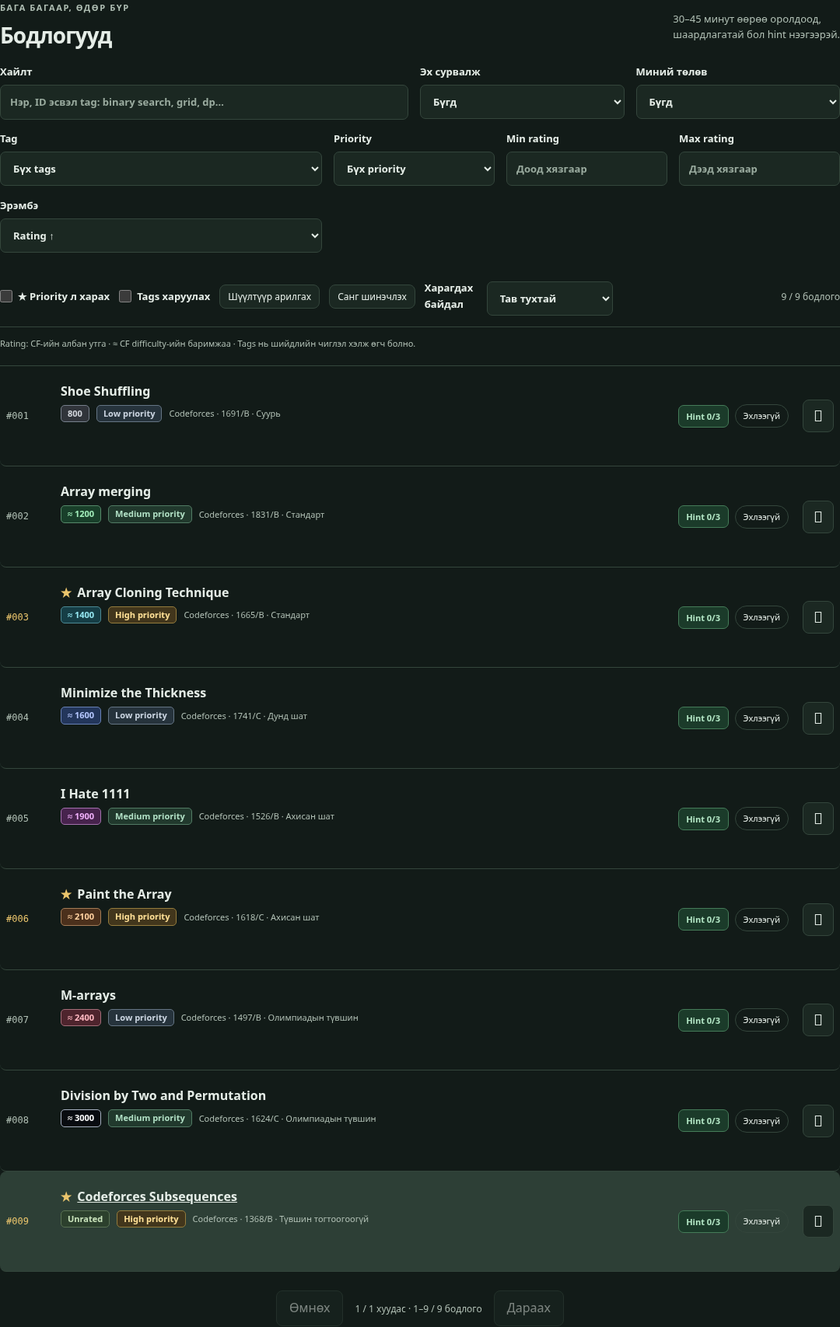
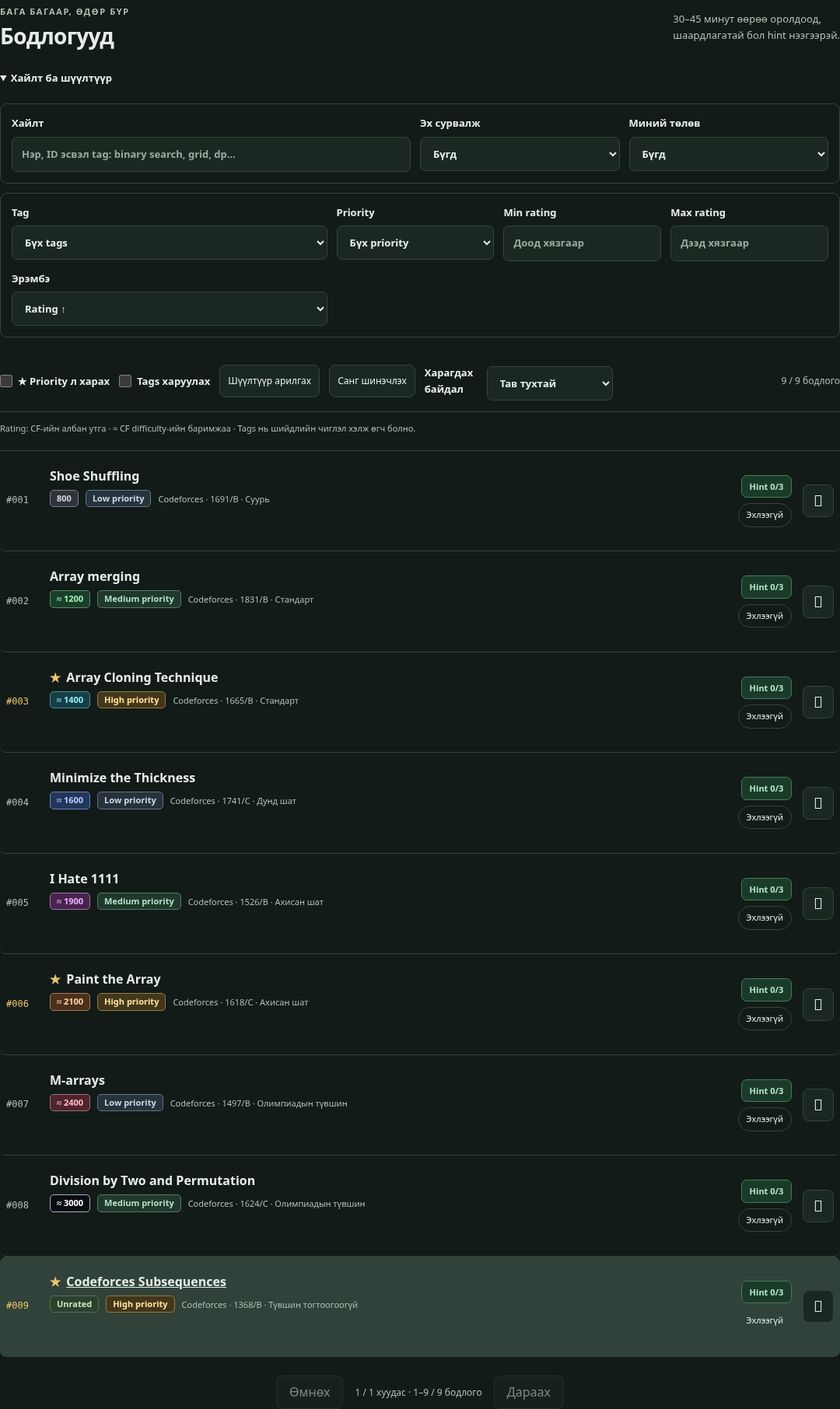
Refresh shared UI and navigation; add minimalist problem mode

diff --git a/index.html b/index.html
@@ -5,13 +5,13 @@
   <title>Erdene Club — Бодлого ба DSA tutorials</title>
   <meta name="description" content="Бодлогын сан, progress болон Монгол хэлээр тайлбарласан DSA tutorials.">
   <script src="theme.js?v=18"></script>
-  <link rel="icon" href="favicon.svg" type="image/svg+xml"><link rel="stylesheet" href="styles.css?v=42"><link rel="stylesheet" href="theme.css?v=23">
+  <link rel="icon" href="favicon.svg" type="image/svg+xml"><link rel="stylesheet" href="styles.css?v=42"><link rel="stylesheet" href="theme.css?v=24">
 <link rel="stylesheet" href="learning.css?v=23"><link rel="stylesheet" href="tutorial-blocks.css?v=42"><link rel="stylesheet" href="tutorial-block-editor.css?v=42"><link rel="stylesheet" href="tutorial-samples.css?v=42">
 <link rel="stylesheet" href="catalog-workspace.css?v=42">
 </head>
 <body>
   <header class="top"><a class="brand" href="#home"><span class="logo">e.</span>erdene<span>club</span></a><span class="top-note">Competitive programming</span><div class="top-actions"><button id="theme-toggle" type="button" aria-label="Бараан горимд шилжих" aria-pressed="false">☾</button><button id="account">Нэвтрэх</button></div></header>
-  <nav class="site-nav" aria-label="Сайтын хэсгүүд"><a data-route="home" href="#home">Нүүр</a><a data-route="profile" href="#profile">Profile</a><a data-route="library" href="#library">Бодлогууд</a><a data-route="tutorials" href="#tutorials">Tutorials</a><a href="https://judge.erdeneclub.com/" target="_blank" rel="noopener noreferrer" title="Шинэ tab-д нээнэ">CMS</a><a data-route="plan" href="#plan">100 хоног</a><a data-route="groups" href="#groups">Групп</a><a data-route="community" id="open-people" href="#community">Хэрэглэгчид</a><a data-route="friends" id="open-friends" href="#friends">Friends</a><a data-route="following" id="open-following" href="#following">Following</a><a data-route="admin-section" id="admin-nav" href="#admin-section" hidden>Admin · Бодлого</a><a data-route="admin-tutorials" id="admin-tutorial-nav" href="#admin-tutorials" hidden>Admin · Tutorials</a><a data-route="learning-admin" id="learning-admin-nav" href="#learning-admin" hidden>Admin · Сургалт</a></nav>
+  <nav class="site-nav" aria-label="Сайтын хэсгүүд"><a data-route="home" href="#home">Нүүр</a><a data-route="profile" href="#profile">Profile</a><a data-route="library" href="#library">Бодлогууд</a><a data-route="tutorials" href="#tutorials">Tutorials</a><a href="https://judge.erdeneclub.com/" target="_blank" rel="noopener noreferrer" title="Шинэ tab-д нээнэ">CMS</a><a data-route="plan" href="#plan">100 хоног</a><a data-route="groups" href="#groups">Групп</a><a data-route="community" id="open-people" href="#community">Хэрэглэгчид</a><a data-route="admin-section" id="admin-nav" href="#admin-section" hidden>Admin · Бодлого</a><a data-route="admin-tutorials" id="admin-tutorial-nav" href="#admin-tutorials" hidden>Admin · Tutorials</a><a data-route="learning-admin" id="learning-admin-nav" href="#learning-admin" hidden>Admin · Сургалт</a></nav>
   <main>
     <section class="hero home-intro" aria-labelledby="home-title">
       <div class="home-lead"><p class="home-kicker">ERDENE CLUB</p><h1 id="home-title">Бодлого ба алгоритм</h1><p class="intro">Competitive programming-ийн бодлогын сан, DSA хичээлүүд болон сургалтын тэмдэглэл.</p><div class="home-actions"><a class="primary" href="#library">Бодлогын сан <span aria-hidden="true">→</span></a><a class="home-secondary" href="#tutorials">Tutorials <span aria-hidden="true">→</span></a></div><p class="home-sources">Codeforces <span>·</span> CSES <span>·</span> IOI <span>·</span> EGOI</p></div>
@@ -27,7 +27,7 @@
     <section id="profile" class="learning-page" hidden aria-label="Profile"><div id="learning-profile-body"></div></section>
 <section id="plan" class="learning-page" hidden><div class="section-head"><div><p class="eyebrow">СИСТЕМТЭЙ БЭЛТГЭЛ</p><h2>100 хоног</h2></div></div><p class="muted">1300–1400 түвшнээс эхлэх хөтөлбөр. Өөрийн хурдаар суралцаж, дутагдсан prerequisite-ээ нөхөж үзээрэй.</p><div id="study-plan-body"></div></section>
 <section id="learning-admin" class="learning-page" hidden><div id="learning-admin-body"></div></section>
-<section id="library"><div class="section-head"><div><p class="eyebrow">БАГА БАГААР, ӨДӨР БҮР</p><h2>Бодлогууд</h2></div><p>30–45 минут өөрөө оролдоод,<br>шаардлагатай бол hint нээгээрэй.</p></div><div class="filters"><label class="search">Хайлт<input id="search" type="search" placeholder="Нэр, ID эсвэл tag: binary search, grid, dp…"></label><label>Эх сурвалж<select id="source"><option value="">Бүгд</option><option>Codeforces</option><option>CSES</option><option>EGOI</option><option>Other</option></select></label><label>Миний төлөв<select id="status-filter"><option value="">Бүгд</option><option value="new">Эхлээгүй</option><option value="trying">Оролдож байгаа</option><option value="solved">Бодсон</option><option value="hinted">Hint ашигласан</option></select></label></div><div class="catalog-controls"><label>Tag<select id="tag-filter"><option value="">Бүх tags</option></select></label><label>Priority<select id="priority-filter"><option value="">Бүх priority</option><option value="high">High</option><option value="medium">Medium</option><option value="low">Low</option></select></label><label>Min rating<input id="min-rating" type="number" min="0" max="4000" step="1" placeholder="Доод хязгаар"></label><label>Max rating<input id="max-rating" type="number" min="0" max="4000" step="1" placeholder="Дээд хязгаар"></label><label>Эрэмбэ<select id="sort"><option value="rating-asc">Rating ↑</option><option value="rating-desc">Rating ↓</option><option value="priority">Priority эхэнд</option><option value="title">Нэрээр</option><option value="number-asc">Нэмсэн дарааллаар</option></select></label></div><div class="catalog-toggles"><label><input id="priority-only" type="checkbox"> ★ Priority л харах</label><label><input id="show-tags" type="checkbox"> Tags харуулах</label><button id="reset-filters" type="button">Шүүлтүүр арилгах</button><button id="refresh-catalog" type="button">Санг шинэчлэх</button><label>Харагдах байдал<select id="problem-density"><option value="comfortable">Тав тухтай</option><option value="compact">Нягт</option></select></label><span id="results-count" role="status" aria-live="polite"></span></div><p id="rating-range-message" class="muted" role="status" aria-live="polite"></p><p class="rating-legend">Rating: CF-ийн албан утга · ≈ CF difficulty-ийн баримжаа · Tags нь шийдлийн чиглэл хэлж өгч болно.</p><div id="problems" class="problem-list" aria-live="polite"><p>Бодлогуудыг ачаалж байна…</p></div><nav id="problem-pagination" class="pagination problem-pagination" aria-label="Бодлогын хуудсууд"><button id="problem-prev" type="button">Өмнөх</button><span id="problem-page" role="status" aria-live="polite"></span><button id="problem-next" type="button">Дараах</button></nav></section>
+<section id="library"><div class="section-head"><div><p class="eyebrow">БАГА БАГААР, ӨДӨР БҮР</p><h2>Бодлогууд</h2></div><p>30–45 минут өөрөө оролдоод,<br>шаардлагатай бол hint нээгээрэй.</p></div><details id="catalog-filter-panel" open><summary>Хайлт ба шүүлтүүр</summary><div class="filters"><label class="search">Хайлт<input id="search" type="search" placeholder="Нэр, ID эсвэл tag: binary search, grid, dp…"></label><label>Эх сурвалж<select id="source"><option value="">Бүгд</option><option>Codeforces</option><option>CSES</option><option>EGOI</option><option>Other</option></select></label><label>Миний төлөв<select id="status-filter"><option value="">Бүгд</option><option value="new">Эхлээгүй</option><option value="trying">Оролдож байгаа</option><option value="solved">Бодсон</option><option value="hinted">Hint ашигласан</option></select></label></div><div class="catalog-controls"><label>Tag<select id="tag-filter"><option value="">Бүх tags</option></select></label><label>Priority<select id="priority-filter"><option value="">Бүх priority</option><option value="high">High</option><option value="medium">Medium</option><option value="low">Low</option></select></label><label>Min rating<input id="min-rating" type="number" min="0" max="4000" step="1" placeholder="Доод хязгаар"></label><label>Max rating<input id="max-rating" type="number" min="0" max="4000" step="1" placeholder="Дээд хязгаар"></label><label>Эрэмбэ<select id="sort"><option value="rating-asc">Rating ↑</option><option value="rating-desc">Rating ↓</option><option value="priority">Priority эхэнд</option><option value="title">Нэрээр</option><option value="number-asc">Нэмсэн дарааллаар</option></select></label></div></details><div class="catalog-toggles"><label><input id="priority-only" type="checkbox"> ★ Priority л харах</label><label><input id="show-tags" type="checkbox"> Tags харуулах</label><button id="reset-filters" type="button">Шүүлтүүр арилгах</button><button id="refresh-catalog" type="button">Санг шинэчлэх</button><label>Харагдах байдал<select id="problem-density"><option value="comfortable">Тав тухтай</option><option value="compact">Нягт</option><option value="minimalist">Minimalist</option></select></label><span id="results-count" role="status" aria-live="polite"></span></div><p id="rating-range-message" class="muted" role="status" aria-live="polite"></p><p class="rating-legend">Rating: CF-ийн албан утга · ≈ CF difficulty-ийн баримжаа · Tags нь шийдлийн чиглэл хэлж өгч болно.</p><div id="problems" class="problem-list" aria-live="polite"><p>Бодлогуудыг ачаалж байна…</p></div><nav id="problem-pagination" class="pagination problem-pagination" aria-label="Бодлогын хуудсууд"><button id="problem-prev" type="button">Өмнөх</button><span id="problem-page" role="status" aria-live="polite"></span><button id="problem-next" type="button">Дараах</button></nav></section>
     <section id="tutorials" class="tutorial-section" aria-labelledby="tutorials-heading">
       <div class="section-head"><div><p class="eyebrow">ОЙЛГО. БАТАЛ. ХЭРЭГЛЭ.</p><h2 id="tutorials-heading">Tutorials</h2></div><p>DSA-г санаанаас нь<br>код хүртэл ойлгоё.</p></div>
       <div class="tutorial-options"><label>Унших хэл / Reading language<select id="tutorial-language"><option value="mn">Монгол</option><option value="en">English</option></select></label><label>Түвшин / Level<select id="tutorial-level"><option value="">Бүх түвшин / All levels</option><option value="beginner">Анхан шат / Beginner</option><option value="intermediate">Дунд шат / Intermediate</option><option value="advanced">Ахисан шат / Advanced</option></select></label></div><div id="tutorial-browser"><aside id="tutorial-learning-guide" class="tutorial-note"></aside>
@@ -67,6 +67,6 @@
   <dialog id="public-profile" class="wide-dialog"><div class="dialog-head"><span class="eyebrow">PROFILE</span><button data-close="public-profile" aria-label="Хаах">✕</button></div><h2 id="public-profile-name">Profile</h2><div id="public-profile-body"></div><div id="public-profile-actions" class="friend-actions"></div><p id="public-profile-message" role="status" aria-live="polite" class="muted"></p><button id="refresh-public-profile" type="button">Шинэчлэх</button><div class="profile-problems"><section><h3>Бодсон бодлогууд</h3><ul id="public-solved"></ul></section><section><h3>Бодож байгаа бодлогууд</h3><ul id="public-trying"></ul></section></div></dialog>
   <dialog id="recovery"><div class="dialog-head"><span class="eyebrow">PASSWORD СЭРГЭЭХ</span><button data-close="recovery" aria-label="Хаах">✕</button></div><h2>Account-даа буцаж оръё.</h2><p id="recovery-message" role="status" aria-live="polite" class="muted"></p><form id="recovery-email-form"><label>Email<input id="recovery-email" type="email" autocomplete="email" required></label><button id="send-recovery-code" class="primary" type="submit">Баталгаажуулах код авах</button></form><form id="recovery-code-form" hidden><p>Код илгээсэн email: <span id="recovery-destination"></span></p><label>Баталгаажуулах код<input id="recovery-code" type="text" inputmode="numeric" autocomplete="one-time-code" pattern="[0-9]{6,10}" minlength="6" maxlength="10" required></label><div class="auth-actions"><button id="verify-recovery-code" class="primary" type="submit">Код баталгаажуулах</button><button id="resend-recovery-code" type="button">Код дахин авах</button><button id="change-recovery-email" type="button">Email солих</button></div></form><form id="recovery-password-form" hidden><label>Шинэ нууц үг<input id="recovery-password" type="password" autocomplete="new-password" minlength="8" required></label><label>Нууц үг давтах<input id="recovery-confirm" type="password" autocomplete="new-password" minlength="8" required></label><button id="save-recovery-password" class="primary" type="submit">Нууц үг шинэчлэх</button></form></dialog>
   <dialog id="tutorial-preview" class="wide-dialog"><div class="dialog-head"><strong>Урьдчилан харах</strong><button data-close="tutorial-preview" aria-label="Хаах">✕</button></div><article id="tutorial-preview-content" class="tutorial-content"></article></dialog>
-  <script src="vendor/highlight/highlight.min.js"></script><script type="module" src="navigation.js?v=23"></script><script src="config.js"></script><script type="module" src="app.js?v=42"></script>
+  <script src="vendor/highlight/highlight.min.js"></script><script type="module" src="navigation.js?v=43"></script><script src="config.js"></script><script type="module" src="app.js?v=43"></script>
 </body>
 </html>

diff --git a/theme.css b/theme.css
@@ -1,4 +1,83 @@
 :root { color-scheme: light; }
+:root { --ink:#18342a; --paper:#f8faf9; --line:#dce5df; --muted:#536b5d; --home-soft:#edf3ef; }
+body { line-height:1.65; }
+button,input:not([type=checkbox]):not([type=radio]):not([type=range]),select { min-height:42px; }
+button { line-height:1.4; }
+:focus-visible { outline:2px solid var(--green); outline-offset:3px; }
+.site-nav a { display:inline-flex; align-items:center; min-height:40px; padding:8px 12px; }
+.section-head { gap:20px; }
+.profile-panel,.profile-charts>* { min-width:0; }
+.learning-inline { min-width:0; max-width:100%; overflow-wrap:anywhere; white-space:normal; }
+.activity-grid { max-width:100%; overflow-x:auto; }
+dialog { max-height:calc(100dvh - 32px); overflow:auto; border:1px solid var(--line); border-radius:12px; padding:24px; }
+dialog::backdrop { background:rgb(12 30 21 / 48%); }
+dialog h2 { line-height:1.3; overflow-wrap:anywhere; }
+input::placeholder,textarea::placeholder { color:var(--muted); opacity:1; }
+html:not([data-theme=dark]) .tutorial-card,
+html:not([data-theme=dark]) .group-card,
+html:not([data-theme=dark]) .group-report-card,
+html:not([data-theme=dark]) .admin-tools>section,
+html:not([data-theme=dark]) .stats,
+html:not([data-theme=dark]) .community-section { background:#fff; }
+@media(max-width:600px) {
+ dialog { padding:18px; max-width:calc(100% - 24px); }
+ .section-head { flex-wrap:wrap; gap:8px; }
+ .site-nav a { padding:8px 10px; }
+}
+@media(prefers-reduced-motion:reduce) { html { scroll-behavior:auto; } }
+/* A quieter workspace hierarchy: persistent navigation on wide screens,
+   wrapping top navigation on tablets and phones. */
+.site-nav { gap:4px; }
+.site-nav a { border:1px solid transparent; border-radius:8px; font-weight:550; }
+.site-nav a[aria-current=page] { border-color:var(--line); background:var(--home-soft); }
+.section-head h2 { letter-spacing:-.7px; line-height:1.25; }
+.home-intro #home-title { font-size:clamp(34px,4vw,48px); letter-spacing:-1.6px; }
+.home-continue,.tutorial-card,.group-card,.profile-panel { box-shadow:none; }
+@media(min-width:1280px) {
+ .top { margin:0 32px 0 236px; padding:0 24px; max-width:1200px; height:80px; }
+ .site-nav { position:fixed; top:104px; left:24px; width:188px; max-height:calc(100dvh - 128px); overflow:auto; display:flex; flex-direction:column; padding:12px; margin:0; border:1px solid var(--line); border-radius:12px; background:var(--home-surface); }
+ .site-nav a { width:100%; padding:11px 12px; min-height:44px; }
+ main { max-width:1200px; margin:0 32px 0 236px; padding:0 24px; }
+ body>footer { max-width:1200px; margin-left:260px; margin-right:56px; }
+}
+html:not([data-theme=dark]) .tag-chip { background:#f3f6f4; color:#4a6052; }
+html:not([data-theme=dark]) #library .filters,
+html:not([data-theme=dark]) #library .catalog-controls { background:#fff; }
+/* Shared layout rules keep density changes separate from catalog/progress data. */
+#library .filters,#library .catalog-controls { padding:14px; border:1px solid var(--line); border-radius:9px; gap:12px; }
+#library .catalog-controls { margin-top:12px; }
+#catalog-filter-panel>summary { padding:8px 0; font-size:13px; font-weight:600; cursor:pointer; }
+#library .catalog-toggles { padding:8px 0; gap:12px 18px; }
+#problems .problem { grid-template-columns:42px minmax(0,1fr) auto auto; gap:14px; padding:20px 4px; }
+#problems .problem .open { min-width:0; border-radius:4px; }
+#problems .problem h3 { font-size:16px; line-height:1.45; font-weight:600; }
+#problems .problem-meta { gap:6px 9px; }
+#problems .problem-meta small,#problems .tag-chip { min-width:0; max-width:100%; overflow-wrap:anywhere; }
+#problems .problem-signals { display:flex; flex-direction:column; align-items:flex-end; gap:7px; }
+#problems .problem>.problem-learning-links { grid-column:2/-1; margin-top:0; overflow-wrap:anywhere; }
+#problems.compact .problem { padding:11px 4px; gap:10px; }
+#problems.compact .problem h3 { font-size:14px; }
+#problems.compact .tag-chips { margin-top:6px; }
+#problems.minimalist .problem { grid-template-columns:38px minmax(0,1fr) auto; gap:12px; padding:23px 4px; }
+#problems.minimalist .problem h3 { font-size:18px; font-weight:550; letter-spacing:-.15px; }
+#problems.minimalist .rating { font-size:10px; padding:1px 6px; }
+#problems.minimalist .tag-chip { font-size:10px; padding:1px 6px; background:transparent; }
+#problems.minimalist .priority-badge { font-size:10px; padding:1px 6px; }
+#problems.minimalist .problem-meta { gap:5px 8px; }
+#problems.minimalist .number { font-size:11px; }
+#problems.minimalist .hint-meter,#problems.minimalist .arrow { display:none; }
+#problems.minimalist .tag-chips { margin-top:7px; }
+#problems .open:focus-visible { outline:2px solid var(--green); outline-offset:5px; }
+@media(max-width:600px) {
+ #library .filters,#library .catalog-controls { padding:11px; gap:10px; }
+ #problems .problem,#problems.minimalist .problem { grid-template-columns:28px minmax(0,1fr) auto; gap:9px; }
+ #problems .problem h3 { font-size:15px; }
+ #problems.minimalist .problem h3 { font-size:17px; }
+ #problems.compact .problem h3 { font-size:14px; }
+ #problems .problem .arrow { display:none; }
+ #problems .problem-signals { max-width:76px; }
+ #problems .problem-signals .badge { font-size:10px; white-space:normal; text-align:center; }
+}
 .top-actions { display:flex; align-items:center; gap:10px; margin-left:auto; min-width:0; }
 .top .top-actions button { margin-left:0; }
 #theme-toggle { width:41px; min-width:41px; height:41px; padding:0; font-size:22px; line-height:1; }

diff --git a/app.js b/app.js
@@ -62,7 +62,7 @@ function render() {
   renderHome();learningUI?.render();
   const filters={query:$('search').value,source:$('source').value,status:$('status-filter').value,tag:$('tag-filter').value,minRating:$('min-rating').value,maxRating:$('max-rating').value,priorityOnly:$('priority-only').checked,priorityLevel:$('priority-filter').value,sort:$('sort').value};
   const filterKey=JSON.stringify(filters);if(filterKey!==lastFilterKey){problemPage=0;lastFilterKey=filterKey;}
-  $('problems').classList.toggle('compact',$('problem-density').value==='compact');$('problems').replaceChildren();
+  $('problems').classList.toggle('compact',$('problem-density').value==='compact');$('problems').classList.toggle('minimalist',$('problem-density').value==='minimalist');$('problems').replaceChildren();
   const invalidRange=!$('min-rating').checkValidity()||!$('max-rating').checkValidity()||($('min-rating').value!==''&&$('max-rating').value!==''&&Number($('min-rating').value)>Number($('max-rating').value));
   const filtered=invalidRange?[]:filterProblems(data.problems,state,filters);
   $('results-count').textContent=filtered.length+' / '+data.problems.length+' бодлого';
@@ -188,6 +188,8 @@ async function refreshCatalog(){if(!client){catalogLoading=false;render();notice
  finally{catalogLoading=false;render();}
 }
 async function init() {
+  const filterPanel=$('catalog-filter-panel'),smallScreen=matchMedia('(max-width:700px)');if(filterPanel){filterPanel.open=!smallScreen.matches;smallScreen.addEventListener('change',event=>{filterPanel.open=!event.matches;});}
+
   const response=await fetch('./problems.json?v=16', {cache:'no-store'});if(!response.ok)throw new Error('Бодлогын санг ачаалж чадсангүй.');data=await response.json();data.problems=data.problems.map(p=>({...p,url:canonicalProblemUrl(p.url)}));catalogIds=new Set(data.problems.map(p=>p.id));catalogLoading=configured;
   try{const cached=parseCatalog(JSON.parse(localStorage.getItem('think-cp:online-catalog')||'null'));data.problems=cached.problems;data.sources=cached.sources||[];for(const id of cached.knownIds)catalogIds.add(id);}catch{}
   readLocal();render();updateAccount();
@@ -211,7 +213,7 @@ async function init() {
   social=setupSocial({client:()=>client,user:()=>user,problems:()=>data.problems,openProblem,viewProfile:id=>{if(learningUI)location.hash='#profile/'+id;else void social?.openProfile(id);},openAccount:()=>{$('account').onclick();},notice});
   adminUI=setupAdmin({progress:()=>state,client:()=>client,user:()=>user,refreshCatalog,sources:()=>getSources(data.problems,data.sources||[])});
   try{learningUI=await setupLearning({client:()=>client,user:()=>user,profile:()=>myProfile,problems:()=>data.problems,progress:()=>state,openProblem,refreshCatalog,redraw:render,refreshDetail:renderDetail,refreshTutorialLibrary:()=>tutorialUI?.refreshStatus(),openAccount:()=>{$('account').onclick();},socialProfile:id=>social.openProfile(id)});tutorialUI.refreshLearning();render();}catch{for(const id of ['learning-profile-body','study-plan-body','learning-admin-body'])$(id).textContent='Сургалтын хэсэг түр ачаалсангүй. Хуудсаа дахин ачаална уу.';}
-  try{const density=localStorage.getItem('erdene:problem-density');$('problem-density').value=density==='compact'?'compact':'comfortable';}catch{}$('problem-density').onchange=()=>{try{localStorage.setItem('erdene:problem-density',$('problem-density').value);}catch{}render();};render();
+  try{const density=localStorage.getItem('erdene:problem-density');$('problem-density').value=['comfortable','compact','minimalist'].includes(density)?density:'comfortable';}catch{}$('problem-density').onchange=()=>{try{localStorage.setItem('erdene:problem-density',$('problem-density').value);}catch{}render();};render();
   $('avatar-file').onchange=()=>{if(avatarPreviewUrl)URL.revokeObjectURL(avatarPreviewUrl);avatarPreviewUrl=null;const file=$('avatar-file').files?.[0];if(file){avatarPreviewUrl=URL.createObjectURL(file);$('remove-avatar').checked=false;}renderOwnAvatar();};
   $('remove-avatar').onchange=()=>{if($('remove-avatar').checked){$('avatar-file').value='';if(avatarPreviewUrl)URL.revokeObjectURL(avatarPreviewUrl);avatarPreviewUrl=null;$('own-avatar').hidden=true;$('own-avatar-fallback').hidden=false;}else renderOwnAvatar();};
   $('profile-form').onsubmit=event=>void saveProfile(event);

diff --git a/navigation.js b/navigation.js
@@ -7,7 +7,7 @@ export function route(){
  const selected=/^#profile(?:\/|$)/.test(hash)?'profile':/^#plan(?:\/|$)/.test(hash)?'plan':hash==='#learning-admin'?'learning-admin':tutorial?'tutorials':community?'community':/^#groups(?:\/|$)/.test(hash)?'groups':hash==='#admin-section'?'admin-section':hash==='#admin-tutorials'?'admin-tutorials':hash==='#library'?'library':'home';
  document.querySelectorAll('main > section').forEach(el=>{const home=el.classList.contains('hero')||el.classList.contains('method');const stats=el.classList.contains('stats');el.hidden=home?selected!=='home':stats?!['home','library'].includes(selected):el.id!==selected||(['admin-section','admin-tutorials','learning-admin'].includes(el.id)&&!admin);});
  byId('route-message').hidden=!(['admin-section','admin-tutorials','learning-admin'].includes(selected)&&!admin);
- document.querySelectorAll('.site-nav [data-route]').forEach(a=>{const active=a.dataset.route===(community?hash.slice(1):selected);if(active)a.setAttribute('aria-current','page');else a.removeAttribute('aria-current');});
+ document.querySelectorAll('.site-nav [data-route]').forEach(a=>{const active=a.dataset.route===selected;if(active)a.setAttribute('aria-current','page');else a.removeAttribute('aria-current');});
  if(!tutorial)document.title='Erdene Club — Бодлого ба DSA tutorials';
  window.scrollTo({top:0,behavior:'instant'});
 }

diff --git a/tests/browser/problem-modes.py b/tests/browser/problem-modes.py
@@ -1,0 +1,98 @@
+"""Synthetic offline browser QA for modes, persistence and shared UI surfaces."""
+import functools,http.server,json,threading,time
+from pathlib import Path
+from playwright.sync_api import sync_playwright
+ROOT=Path(__file__).resolve().parents[2]
+class Quiet(http.server.SimpleHTTPRequestHandler):
+ def log_message(self,*args):pass
+server=http.server.ThreadingHTTPServer(('127.0.0.1',0),functools.partial(Quiet,directory=str(ROOT)))
+threading.Thread(target=server.serve_forever,daemon=True).start();base=f'http://127.0.0.1:{server.server_port}'
+seed=json.loads((ROOT/'problems.json').read_text())['problems'][0]
+pool=[{**seed,'id':f'ui-{i}','number':i+1,'ref':f'fixture-{i}','title':('Уртгарчиг'*15 if i==0 else f'Fixture {i}'),'tags':[f'tag-{j}-'+'longword'*4 for j in range(20)] if i==0 else ['dp'],'rating':800+i*10,'hints':['One','Two','Three'],'hintsEn':['One','Two','Three']}for i in range(125)]
+checks={}
+try:
+ with sync_playwright()as pw:
+  browser=pw.chromium.launch(executable_path='/usr/bin/chromium',args=['--no-sandbox']);page=browser.new_page(viewport={'width':1200,'height':950});page.set_default_timeout(10000);errors=[];page.on('pageerror',lambda e:errors.append(str(e)))
+  def route(r):
+   if not r.request.url.startswith(base):r.abort()
+   elif '/config.js'in r.request.url:r.fulfill(status=200,content_type='text/javascript',body='window.THINK_CP_CONFIG={};')
+   elif '/problems.json'in r.request.url:r.fulfill(status=200,content_type='application/json',body=json.dumps({'problems':pool}))
+   else:r.continue_()
+  page.route('**/*',route);page.emulate_media(color_scheme='light')
+  page.add_init_script('''window.MathJax={startup:{promise:Promise.resolve()},typesetClear:()=>{},typesetPromise:async()=>{}};
+  if(!localStorage.getItem('mode-test-seeded')){localStorage.setItem('think-cp:v1:guest',JSON.stringify({progress:{'ui-0':{status:'solved',hints:2,notes:'Keep me'}},dirty:[]}));localStorage.setItem('mode-test-seeded','1');}''')
+  page.goto(base+'/index.html#library',wait_until='networkidle');page.wait_for_selector('#problems .problem');page.locator('#show-tags').check()
+  assert page.locator('#problems .problem').count()==100
+  for width in [375,768,1200,1440]:
+   page.set_viewport_size({'width':width,'height':950})
+   for theme in ['light','dark']:
+    if page.evaluate('document.documentElement.dataset.theme')!=theme:page.locator('#theme-toggle').click()
+    heights={}
+    for mode in ['comfortable','compact','minimalist']:
+     start=time.perf_counter();page.locator('#problem-density').select_option(mode)
+     assert page.evaluate('document.documentElement.scrollWidth<=innerWidth'),(width,theme,mode)
+     assert page.locator('#library').evaluate('e=>e.scrollWidth<=e.clientWidth'),(width,theme,mode)
+     row=page.locator('#problems .problem').first;heights[mode]=row.evaluate('e=>e.getBoundingClientRect().height')
+     assert row.locator('.hint-meter').is_hidden()if mode=='minimalist'else row.locator('.hint-meter').is_visible()
+     assert row.locator('.hint-meter').inner_text()=='Hint 2/3'
+     assert row.locator('.badge.solved').is_visible()
+     if mode=='minimalist':
+      assert row.locator('h3').evaluate('e=>parseFloat(getComputedStyle(e).fontSize)')>row.locator('.rating').evaluate('e=>parseFloat(getComputedStyle(e).fontSize)')
+      assert row.locator('.tag-chip').first.evaluate('e=>parseFloat(getComputedStyle(e).fontSize)')<row.locator('h3').evaluate('e=>parseFloat(getComputedStyle(e).fontSize)')
+     checks[f'{width}-{theme}-{mode}']={'status':'passed','interaction_ms':round((time.perf_counter()-start)*1000,2)}
+    assert heights['compact']<heights['comfortable']
+  page.set_viewport_size({'width':1200,'height':950});page.locator('#problem-next').click();assert page.locator('#problems .problem').count()==25
+  for mode in ['comfortable','compact','minimalist']:
+   page.locator('#problem-density').select_option(mode);assert page.locator('#problems .problem').count()==25
+  page.locator('#search').fill('no-matching-fixture');assert page.locator('#problems .problem').count()==0
+  assert 'Тохирох бодлого' in page.locator('#problems').inner_text()
+  page.locator('#reset-filters').click();assert page.locator('#problems .problem').count()==100
+  page.locator('#problems .open').first.click();assert page.locator('#notes').input_value()=='Keep me';page.locator('[data-close=detail]').click()
+  for theme,mode in [('light','compact'),('dark','minimalist'),('light','comfortable')]:
+   if page.evaluate('document.documentElement.dataset.theme')!=theme:page.locator('#theme-toggle').click()
+   page.locator('#problem-density').select_option(mode);page.reload(wait_until='networkidle');page.wait_for_selector('#problems .problem')
+   assert page.locator('#problem-density').input_value()==mode
+   assert page.evaluate('document.documentElement.dataset.theme')==theme
+  checks['persistence_pagination_empty_state_progress']={'status':'passed'}
+  for width in [375,1200,1440]:
+   page.set_viewport_size({'width':width,'height':950})
+   for route_name in ['home','profile','tutorials','plan','groups','community','friends','following']:
+    page.evaluate('(r)=>location.hash="#"+r',route_name);page.wait_for_timeout(50)
+    if not page.evaluate('document.documentElement.scrollWidth<=innerWidth'):
+     page.screenshot(path='/tmp/erdene-ui-overflow.png',full_page=True)
+     raise AssertionError((width,route_name,page.evaluate('''()=>[...document.querySelectorAll('main *')].filter(e=>e.getBoundingClientRect().right>innerWidth).slice(0,12).map(e=>[e.tagName,e.id,e.className,e.getBoundingClientRect().width])''')))
+    if route_name in ['friends','following']:
+     assert page.locator('.site-nav [data-route=community]').get_attribute('aria-current')=='page'
+     assert page.locator('.site-nav [data-route=friends],.site-nav [data-route=following]').count()==0
+  checks['main_surface_mobile_desktop_overflow']={'status':'passed'}
+  page.evaluate("location.hash='#community'");page.locator('#friends-tab').click();page.wait_for_function("location.hash==='#friends'")
+  page.locator('#friends-panel').wait_for(state='visible')
+  assert page.locator('.site-nav [data-route=community]').get_attribute('aria-current')=='page'
+  page.locator('#following-tab').click();page.wait_for_function("location.hash==='#following'");page.locator('#following-panel').wait_for(state='visible')
+  checks['users_subtabs_and_deep_links']={'status':'passed'}
+  error_page=browser.new_page()
+  def failed_route(r):
+   if not r.request.url.startswith(base):r.abort()
+   elif '/config.js'in r.request.url:r.fulfill(status=200,content_type='text/javascript',body='window.THINK_CP_CONFIG={};')
+   elif '/problems.json'in r.request.url:r.fulfill(status=503,body='Unavailable')
+   else:r.continue_()
+  error_page.route('**/*',failed_route)
+  error_page.goto(base+'/index.html#library',wait_until='networkidle')
+  assert 'ачаалж чадсангүй' in error_page.locator('#problems').inner_text()
+  checks['catalog_load_error_message']={'status':'passed'};error_page.close()
+  loading_page=browser.new_page();pending=[]
+  def loading_route(r):
+   if not r.request.url.startswith(base):r.abort()
+   elif '/config.js'in r.request.url:r.fulfill(status=200,content_type='text/javascript',body='window.THINK_CP_CONFIG={};')
+   elif '/problems.json'in r.request.url:pending.append(r)
+   else:r.continue_()
+  loading_page.route('**/*',loading_route);loading_page.goto(base+'/index.html#library',wait_until='domcontentloaded');loading_page.wait_for_timeout(150)
+  assert pending and 'ачаалж байна' in loading_page.locator('#problems').inner_text()
+  pending[0].fulfill(status=200,content_type='application/json',body='{"problems":[]}')
+  loading_page.wait_for_function("document.querySelector('#problems').textContent.includes('Тохирох бодлого')")
+  checks['catalog_loading_and_empty_response']={'status':'passed'};loading_page.close()
+
+
+  assert not errors,errors;browser.close()
+finally:server.shutdown()
+(ROOT/'audit/PART04-PROBLEM-MODES.json').write_text(json.dumps(checks,indent=2)+'\n');print(json.dumps(checks))

diff --git a/audit/PART04-UI-REFRESH.md b/audit/PART04-UI-REFRESH.md
@@ -1,0 +1,11 @@
+# Package 4 UI refresh checkpoint
+
+The latest user instructions allow a fresh overall design while preserving routes, features, data and accessibility. The visual direction uses neutral light surfaces, a dark-green accent, clearer spacing and restrained borders. Dark tokens remain coherent. Wide screens receive a persistent side navigation; tablets and phones use a wrapping primary menu. Shared forms, focus indicators, cards and dialogs receive consistent treatment. No new animation, gradient or external font dependency.
+
+Problems has three functional densities. Minimalist uses larger titles, smaller ratings/tags and hides only the hint-use indicator. Hint data, detail hints, solved/trying state and normal-mode indicators persist. Compact now has visibly denser rows. Mobile search/filter controls collapse using a native details element. Profile problem links wrap long unbroken titles rather than expanding the page.
+
+Friends/Following leave the primary menu. Both routes and Users tabs remain, and Users stays marked current for either deep link.
+
+Validation: problem-modes.py passes 24 width/theme/mode combinations, persistence, pagination, empty/loading/error, stored notes/progress, eight public routes and Users subtabs/deep links. Catalog UI8, priority UI7, problem dialog17, publication workflow5 and editor regression checks pass. The full rating matrix remains correct in light/dark and all three surfaces; contrast minima4.537/7.253. Screenshots inspected locally at1440/375 using bundled offline data. Interaction timings are Playwright round trips on125 synthetic records, not production network/render benchmarks.
+
+Production/live authenticated behavior, exhaustive accessibility audit and remaining package4 data/research requirements are still open. No migrations, imports, merge or deployment performed.

diff --git a/NEXT-STEPS.md b/NEXT-STEPS.md
@@ -1,3 +1,9 @@
+# Package04 UI update — minimalist mode and overall workspace refresh
+
+New UI scope implemented in app.js/index.html/navigation.js/theme.css; see audit/PART04-UI-REFRESH.md. Minimalist hides hint count only, preserves data; all3modes/theme persistence tested. Light neutral surfaces, shared cards/forms/dialog/focus, wide sidebar and mobile collapsible filters. Primary Friends/Following removed; Users subtabs/deep routes and active-state retained. Long-title Profile overflow fixed.
+Current browser QA:24mode/theme/width combinations plus5flow groups passed; palette full100-step matrix remains passed. Catalog8/priority7/dialog17/publication5/editor regression checks pass. No live authenticated production claim.
+Quota progress unchanged:AtCoder50/50, overall50/245 local reviewed,195remaining. Baseline30/748reviewed,718remaining;30rationale proposals, none applied. Continue unfinished data audits/other-source quota work alongside checklist.
+
 # Package04 checkpoint — AtCoder50,30 baseline reviews, complete rating UI matrix
 
 AtCoder50/50 reviewed local records; total50/245,195 remaining across CF100/IOI30/EGOI30/APIO15/JOI20. All50 import records validate together; strict quota gate rejects0. Production imports0.
